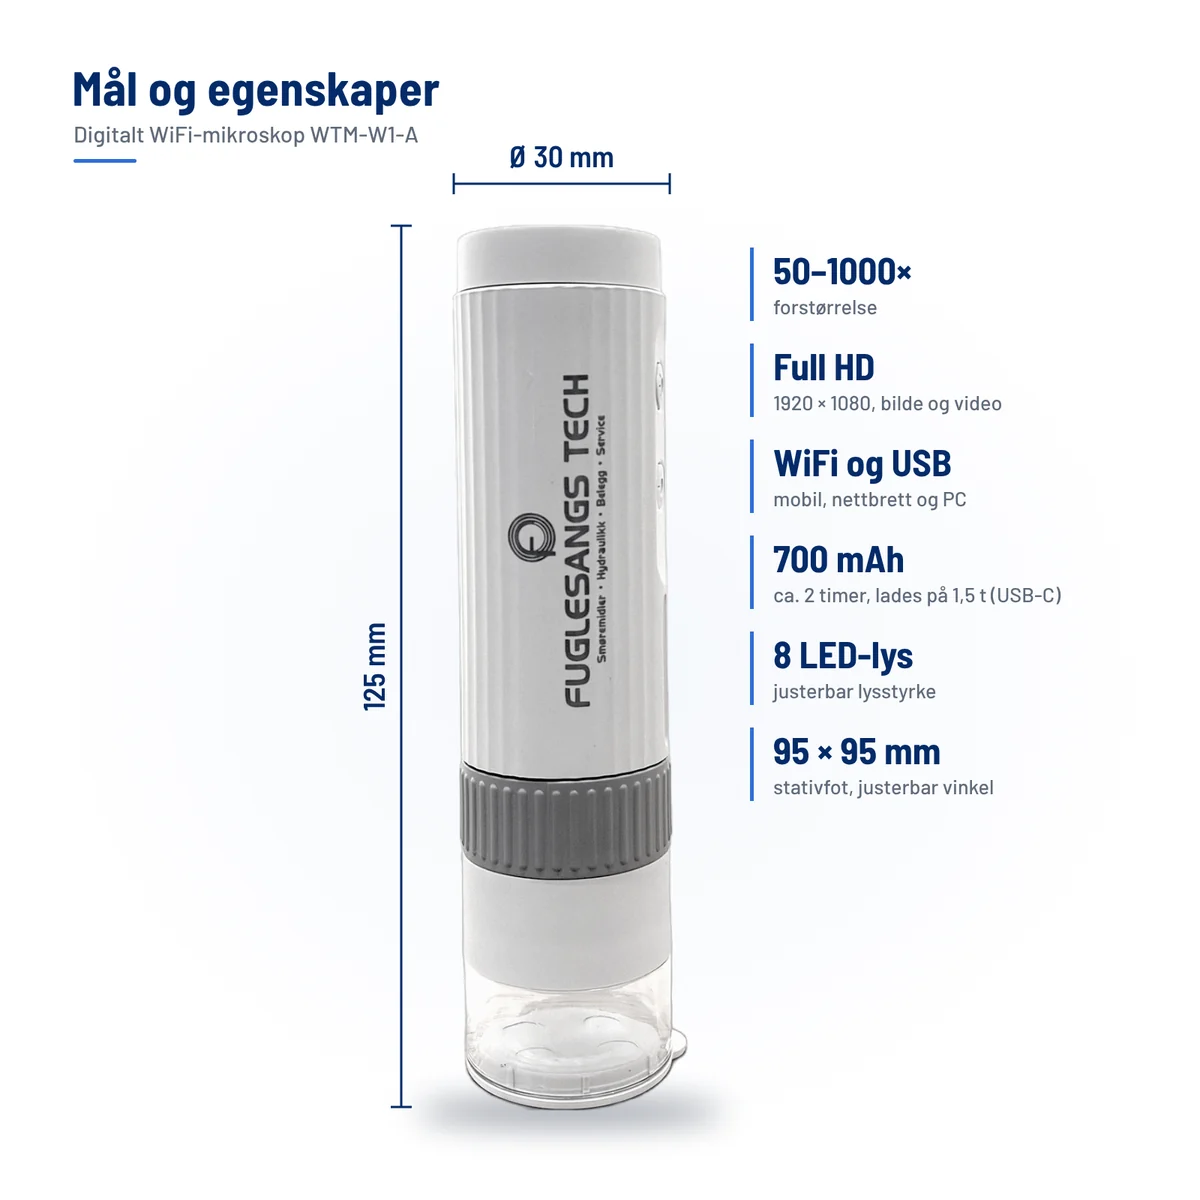
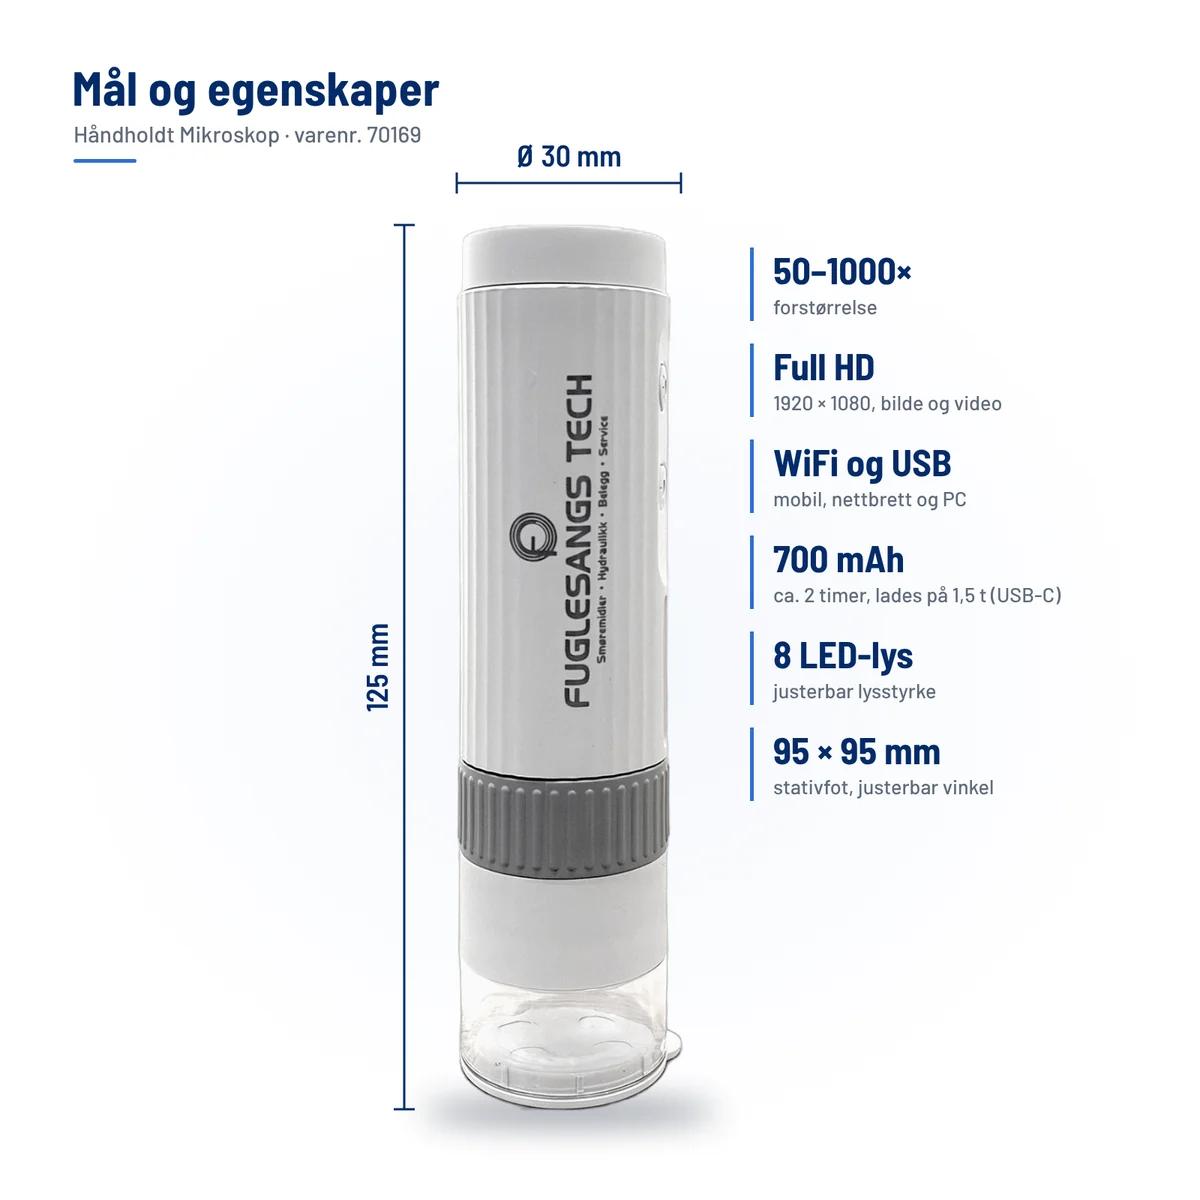
Håndholdt Mikroskop (varenr. 70169): nytt navn, og det stående bildet er rettet opp
Claude-Session: https://claude.ai/code/session_01HrddjfsEsjoL7f32QJY5CH

diff --git a/README.md b/README.md
@@ -87,5 +87,5 @@ Et dokument som nevner et produktnavn katalogen ikke har (navnebytte, skrivefeil
 Test mot en lokal versjon av kodeblokken med `FT_KATALOG_FIL=<fil>`.
 
 ## Egne produkter fra Fuglesangs Tech (ft/)
-`ft/produkter.json` har produkter med Fuglesangs Tech-logo (foreløpig det digitale WiFi-mikroskopet WTM-W1-A). Produktkatalogen på /produkter viser dem under knappen «Fuglesangs Tech», med tekst, tekniske data, bilder og kontaktperson fra fila. Bildene ligger i `ft/bilder/` (første bilde i lista er hovedbildet).
+`ft/produkter.json` har produkter med Fuglesangs Tech-logo (foreløpig Håndholdt Mikroskop, varenr. 70169). Produktkatalogen på /produkter viser dem under knappen «Fuglesangs Tech», med tekst, tekniske data, bilder og kontaktperson fra fila. Bildene ligger i `ft/bilder/` (første bilde i lista er hovedbildet).
 Nytt eget produkt: legg til en rad i `produkter` (id, navn, kode, kategori, gruppe, kontakt = trygve/kjartan/yngvar, kort, tekst, spesifikasjoner, bilder). Katalogkoden trenger ikke endres.
